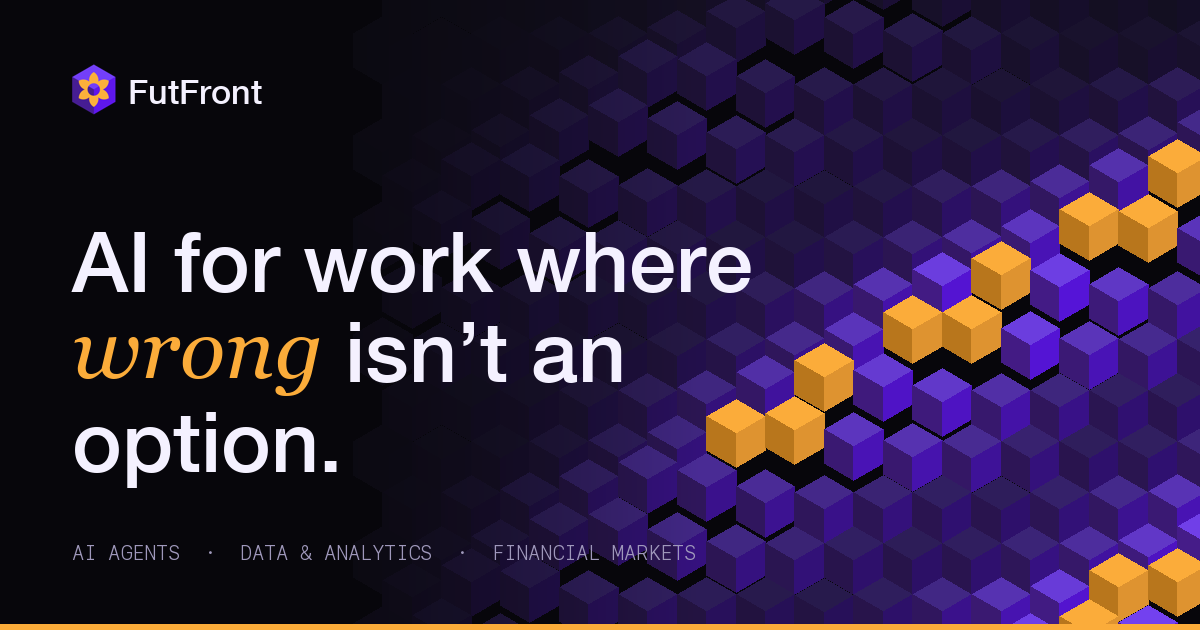
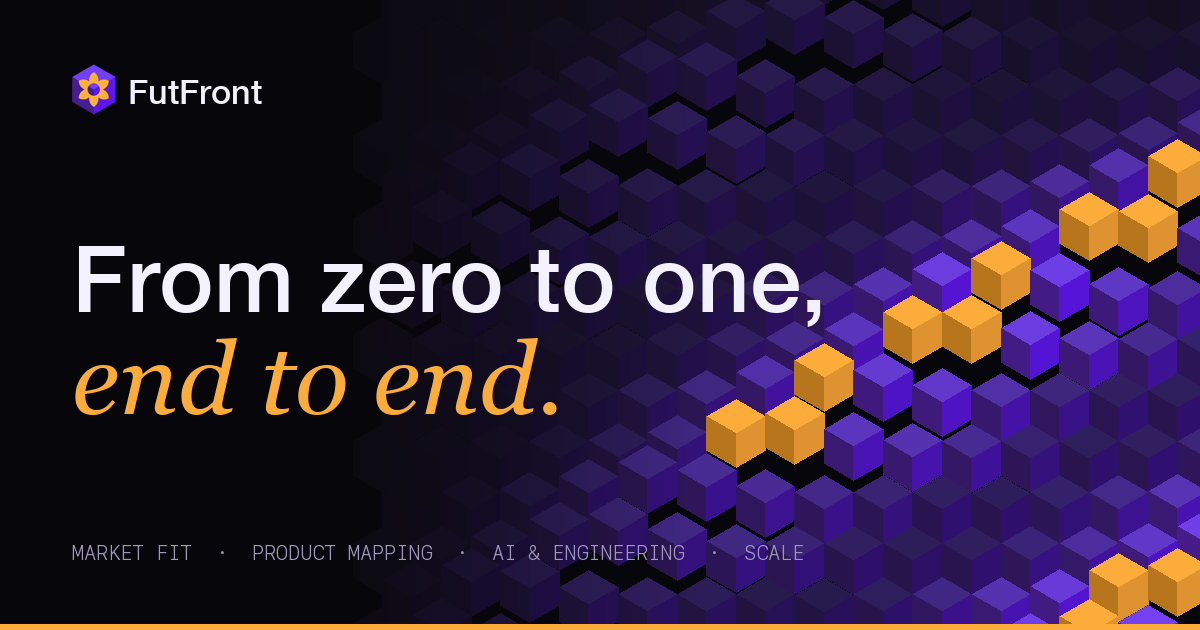
Reposition FutFront as a zero-to-one product studio
- Hero, manifesto, services and contact reframed around end-to-end
  partnership: market fit, product mapping, build, launch and scale
- Approach section becomes a 4-phase process with deliverables
- New FAQ entries; title, meta, OG/Twitter, JSON-LD services updated
- Regenerated og-image.png with the new headline

diff --git a/index.html b/index.html
@@ -5,8 +5,8 @@
 <meta name="viewport" content="width=device-width, initial-scale=1">
 <script>document.documentElement.classList.replace('no-js','js')</script>
 
-<title>FutFront | AI Agents, Data Analytics &amp; Financial-Markets Software Studio</title>
-<meta name="description" content="FutFront is an IIT Bombay founder-led studio building AI agents, governed analytics and financial-markets software: trade surveillance, order management, data copilots and more.">
+<title>FutFront | Zero-to-One Product Studio: Strategy, AI &amp; Engineering</title>
+<meta name="description" content="FutFront takes ideas from zero to one: market-fit validation, product mapping, AI and full-stack engineering, launch and scale. Built by IIT Bombay founders.">
 <link rel="canonical" href="https://www.futfront.com/">
 <meta name="robots" content="index, follow, max-image-preview:large">
 <meta name="theme-color" content="#07060b">
@@ -15,16 +15,16 @@
 <meta property="og:type" content="website">
 <meta property="og:site_name" content="FutFront">
 <meta property="og:url" content="https://www.futfront.com/">
-<meta property="og:title" content="FutFront | AI for work where wrong isn’t an option">
-<meta property="og:description" content="AI agents, governed analytics and financial-markets software, built by IIT Bombay founders. 18 products shipped.">
+<meta property="og:title" content="FutFront | From zero to one, end to end">
+<meta property="og:description" content="Market fit, product mapping, AI and engineering, launch and scale. One partner from idea to shipped product. 18 products shipped.">
 <meta property="og:image" content="https://www.futfront.com/og-image.png">
 <meta property="og:image:width" content="1200">
 <meta property="og:image:height" content="630">
-<meta property="og:image:alt" content="FutFront: AI for work where wrong isn’t an option">
+<meta property="og:image:alt" content="FutFront: From zero to one, end to end">
 <meta property="og:locale" content="en_IN">
 <meta name="twitter:card" content="summary_large_image">
-<meta name="twitter:title" content="FutFront | AI for work where wrong isn’t an option">
-<meta name="twitter:description" content="AI agents, governed analytics and financial-markets software, built by IIT Bombay founders.">
+<meta name="twitter:title" content="FutFront | From zero to one, end to end">
+<meta name="twitter:description" content="Market fit, product mapping, AI and engineering, launch and scale. One partner from idea to shipped product.">
 <meta name="twitter:image" content="https://www.futfront.com/og-image.png">
 
 <link rel="icon" type="image/png" href="FutFrontlogo.png">
@@ -48,22 +48,22 @@
       "url": "https://www.futfront.com/",
       "logo": "https://www.futfront.com/FutFrontlogo.png",
       "image": "https://www.futfront.com/og-image.png",
-      "description": "FutFront is an IIT Bombay founder-led technology studio building AI agents, governed data analytics and financial-markets software, from zero-to-one products to enterprise-scale systems.",
-      "slogan": "AI for work where wrong isn’t an option.",
+      "description": "FutFront is an IIT Bombay founder-led zero-to-one product studio. We take ideas from market-fit validation and product mapping through design, AI and full-stack engineering to launch and scale.",
+      "slogan": "From zero to one, end to end.",
       "founder": [
         {"@type": "Person", "name": "Adesh Bhavsar", "jobTitle": "Co-founder", "alumniOf": "Indian Institute of Technology Bombay"},
         {"@type": "Person", "name": "Ravi Kumar", "jobTitle": "Co-founder", "alumniOf": "Indian Institute of Technology Bombay"},
         {"@type": "Person", "name": "Abhishek Malyan", "jobTitle": "Co-founder", "alumniOf": "Indian Institute of Technology Bombay"}
       ],
-      "knowsAbout": ["AI agents", "Large language models", "Retrieval-augmented generation", "Trade surveillance", "Order management systems", "Regulatory technology", "Data analytics", "Embedded BI", "Master data management", "Voice AI", "Databricks", "AWS Bedrock"],
+      "knowsAbout": ["Product-market fit", "Product strategy", "Product mapping", "MVP development", "Go-to-market strategy", "AI agents", "Large language models", "Retrieval-augmented generation", "Trade surveillance", "Order management systems", "Regulatory technology", "Data analytics", "Embedded BI", "Master data management", "Voice AI", "Databricks", "AWS Bedrock"],
       "hasOfferCatalog": {
         "@type": "OfferCatalog",
         "name": "FutFront services",
         "itemListElement": [
-          {"@type": "Offer", "itemOffered": {"@type": "Service", "name": "AI Agents & Automation", "description": "LLM copilots, multi-agent systems, voice and chat agents, and document intelligence."}},
-          {"@type": "Offer", "itemOffered": {"@type": "Service", "name": "Financial-Markets Software", "description": "Trade surveillance, risk management, order management and regulatory tracking for asset managers, PMS houses and brokers."}},
-          {"@type": "Offer", "itemOffered": {"@type": "Service", "name": "Data & Analytics", "description": "Governed analytics assistants, lakehouse pipelines and multi-tenant embedded BI."}},
-          {"@type": "Offer", "itemOffered": {"@type": "Service", "name": "Product Engineering & Advisory", "description": "Full-stack product builds, AI roadmaps, go-to-market and competitive intelligence."}}
+          {"@type": "Offer", "itemOffered": {"@type": "Service", "name": "Market Fit & Strategy", "description": "Problem validation, market sizing, competitive intelligence, pricing and go-to-market strategy."}},
+          {"@type": "Offer", "itemOffered": {"@type": "Service", "name": "Product Mapping & Design", "description": "User journeys, feature maps, solution architecture, MVP scoping, prototypes and roadmaps."}},
+          {"@type": "Offer", "itemOffered": {"@type": "Service", "name": "Zero-to-One Engineering", "description": "Full-stack web and mobile apps, AI agents and copilots, data platforms and financial-markets systems."}},
+          {"@type": "Offer", "itemOffered": {"@type": "Service", "name": "Launch, Scale & Advisory", "description": "Launch analytics, iteration, performance and scaling, plus ongoing product and technology advisory."}}
         ]
       }
     },
@@ -78,12 +78,13 @@
     {
       "@type": "FAQPage",
       "mainEntity": [
-        {"@type": "Question", "name": "What does FutFront do?", "acceptedAnswer": {"@type": "Answer", "text": "FutFront is a technology studio that designs and builds AI agents, data and analytics platforms, and financial-markets software, from zero-to-one products to enterprise-scale systems."}},
+        {"@type": "Question", "name": "What does FutFront do?", "acceptedAnswer": {"@type": "Answer", "text": "FutFront is a zero-to-one product studio. We take ideas from market-fit validation and product mapping through design, AI and full-stack engineering to launch and scale, as one end-to-end partner."}},
+        {"@type": "Question", "name": "Can you help before we have a product?", "acceptedAnswer": {"@type": "Answer", "text": "Yes, that is where we start. We validate the market, map the product and scope an MVP before writing code, so you invest in what customers will actually use."}},
+        {"@type": "Question", "name": "What does an engagement look like?", "acceptedAnswer": {"@type": "Answer", "text": "Four phases: discover and validate, map the product, build and ship, then launch and scale. You can engage us for the full journey or for a single phase, such as a market-fit study or an MVP build."}},
         {"@type": "Question", "name": "Which industries does FutFront work with?", "acceptedAnswer": {"@type": "Answer", "text": "Capital markets and wealth management, enterprise data and SaaS analytics, telecom, government and deep tech. Our catalog includes trade surveillance, order management, data stewardship copilots and governed analytics assistants."}},
-        {"@type": "Question", "name": "How do you make AI reliable for regulated work?", "acceptedAnswer": {"@type": "Answer", "text": "We keep models away from the facts. Deterministic code computes every number, outputs are validated against schemas and sources, every write needs human confirmation, and every action lands in an audit trail."}},
-        {"@type": "Question", "name": "Can FutFront deploy inside our own cloud?", "acceptedAnswer": {"@type": "Answer", "text": "Yes. Several of our systems run single-tenant in the client’s own cloud account or on self-hosted open-weight models, so sensitive data never leaves your environment."}},
+        {"@type": "Question", "name": "How do you make AI reliable?", "acceptedAnswer": {"@type": "Answer", "text": "We keep models away from the facts. Deterministic code computes every number, outputs are validated against schemas and sources, every write needs human confirmation, and every action lands in an audit trail."}},
         {"@type": "Question", "name": "Who founded FutFront?", "acceptedAnswer": {"@type": "Answer", "text": "FutFront was founded by IIT Bombay alumni Adesh Bhavsar, Ravi Kumar and Abhishek Malyan, with experience across Elevance Health, Trinity Life Sciences, Flexiloans, Omind Tech, HPCL and Mitacs research."}},
-        {"@type": "Question", "name": "How do we start a project with FutFront?", "acceptedAnswer": {"@type": "Answer", "text": "Send us a note through the contact form. We set up a discovery call, map the problem and the data, and propose a scoped first build."}}
+        {"@type": "Question", "name": "How do we start a project with FutFront?", "acceptedAnswer": {"@type": "Answer", "text": "Send us a note through the contact form, even if the idea is still rough. We set up a discovery call, look at the market and the problem, and propose the right first step."}}
       ]
     }
   ]
@@ -201,7 +202,7 @@ a:hover>.roll>span,button:hover>.roll>span{transform:translateY(-1.35em)}
 .hero__veil{position:absolute;inset:0;z-index:-1;pointer-events:none;background:linear-gradient(95deg,rgba(7,6,11,.94) 0%,rgba(7,6,11,.7) 38%,rgba(7,6,11,0) 70%),linear-gradient(0deg,var(--ink) 0%,rgba(7,6,11,0) 22%)}
 .hero__content{height:100%;display:flex;flex-direction:column;justify-content:center;gap:clamp(22px,3vw,36px);padding-top:70px}
 .js .hero__content{visibility:hidden}
-.hero__title{font-size:clamp(46px,8.3vw,150px);line-height:.93;letter-spacing:-.05em;font-weight:500;max-width:12.5ch}
+.hero__title{font-size:clamp(44px,8.6vw,156px);line-height:.93;letter-spacing:-.05em;font-weight:500}
 .hero__title .serif{color:var(--saffron);padding-right:.04em}
 .hero__row{display:flex;justify-content:space-between;align-items:flex-end;gap:32px;flex-wrap:wrap}
 .hero__sub{max-width:46ch;color:var(--muted);font-size:clamp(16px,1.25vw,19px)}
@@ -341,6 +342,7 @@ section{position:relative}
 .principle .mono{color:var(--accent)}
 .principle h3{font-size:clamp(28px,3.2vw,52px);line-height:1.02;letter-spacing:-.04em;font-weight:500;margin-top:12px}
 .principle p{color:var(--fg-muted);margin-top:14px;max-width:48ch;font-size:clamp(15px,1.15vw,18px)}
+.principle p.deliv{font:400 11.5px/1.7 var(--mono);letter-spacing:.07em;text-transform:uppercase;color:var(--fg);margin-top:18px}
 
 /* ── demos ── */
 .demos__grid{display:grid;grid-template-columns:repeat(3,1fr);gap:16px}
@@ -499,7 +501,7 @@ section{position:relative}
     <a href="#services"><span class="roll"><span>Services</span></span></a>
     <a href="#work"><span class="roll"><span>Work</span></span></a>
     <a href="#catalog"><span class="roll"><span>Catalog</span></span></a>
-    <a href="#approach"><span class="roll"><span>Approach</span></span></a>
+    <a href="#process"><span class="roll"><span>Process</span></span></a>
     <a href="#team"><span class="roll"><span>Team</span></span></a>
   </nav>
   <div class="nav__right">
@@ -511,10 +513,10 @@ section{position:relative}
   <a href="#services">Services</a>
   <a href="#work">Work</a>
   <a href="#catalog">Catalog</a>
-  <a href="#approach">Approach</a>
+  <a href="#process">Process</a>
   <a href="#team">Team</a>
   <a href="#contact">Contact</a>
-  <p class="mono">AI · Data · Financial Markets</p>
+  <p class="mono">Zero to one · End to end</p>
 </div>
 
 <main id="main">
@@ -524,10 +526,10 @@ section{position:relative}
   <canvas id="gl" aria-hidden="true"></canvas>
   <div class="hero__veil"></div>
   <div class="hero__content wrap">
-    <p class="eyebrow mono" data-scramble>FutFront: AI · Data · Financial Markets</p>
-    <h1 class="hero__title" id="hero-h">AI for work where <em class="serif">wrong</em> isn’t an option.</h1>
+    <p class="eyebrow mono" data-scramble>FutFront: Zero-to-one product studio</p>
+    <h1 class="hero__title" id="hero-h">From zero to one,<br><em class="serif">end to end.</em></h1>
     <div class="hero__row">
-      <p class="hero__sub">An <strong>IIT Bombay founder-led studio</strong> building AI agents, governed analytics and financial-markets software for teams where every number has to be right.</p>
+      <p class="hero__sub">We take your idea from <strong>market fit and product mapping</strong> to a shipped, scaling product, with strategy, design, AI and engineering under one roof. Founded by IIT Bombay alumni.</p>
       <div class="hero__ctas">
         <a href="#work" class="btn magnetic"><span class="roll"><span>See our work</span></span><svg viewBox="0 0 14 14" fill="none" aria-hidden="true"><path d="M1 13 13 1M13 1H3M13 1v10" stroke="currentColor" stroke-width="1.6"/></svg></a>
         <a href="#contact" class="btn btn--ghost magnetic"><span class="roll"><span>Talk to the founders</span></span></a>
@@ -543,7 +545,7 @@ section{position:relative}
 
 <!-- ███ MARQUEE ███ -->
 <section class="marquee" aria-label="Capabilities">
-  <div class="marquee__row"><div class="marquee__track"><span>AI Agents</span><span>Trade Surveillance</span><span>Governed Analytics</span><span>Voice AI</span><span>Order Management</span><span>Data Stewardship</span><span>Embedded BI</span><span>Entity Resolution</span></div></div>
+  <div class="marquee__row"><div class="marquee__track"><span>Market Fit</span><span>Product Mapping</span><span>MVP Builds</span><span>AI Agents</span><span>Data Platforms</span><span>Trade Surveillance</span><span>Voice AI</span><span>Launch &amp; Scale</span></div></div>
   <div class="marquee__row marquee__row--alt" aria-hidden="true"><div class="marquee__track"><span>Claude</span><span>GPT-4o</span><span>AWS Bedrock</span><span>Databricks</span><span>ClickHouse</span><span>LangGraph</span><span>FastAPI</span><span>Next.js</span><span>Whisper</span><span>PostgreSQL</span></div></div>
 </section>
 
@@ -551,7 +553,7 @@ section{position:relative}
 <section class="sec manifesto" id="about" data-theme="paper" aria-labelledby="about-h">
   <div class="wrap">
     <h2 class="mono label" id="about-h">( 01 · Who we are )</h2>
-    <p class="manifesto__text">We’re builders, not slide-makers. We take messy, high-stakes problems like trade surveillance, credit decisions, sales pipelines and citizen services, and turn them into software that ships, scales and <em>proves its own numbers.</em> The model writes the words. Code computes the facts. Humans make the call.</p>
+    <p class="manifesto__text">We’re your zero-to-one partner, not another vendor. We start where the idea is still a hunch: who it’s for, whether the market wants it, what to build first. Then we map it, design it, engineer it and <em>ship it,</em> and stay on until it scales. One team, from the first whiteboard to the thousandth user.</p>
     <div class="manifesto__sign mono" data-reveal>
       <span><b>3</b> IIT Bombay co-founders</span>
       <span><b>18</b> products shipped</span>
@@ -564,46 +566,46 @@ section{position:relative}
 <section class="services" id="services" data-theme="paper" aria-labelledby="services-h">
   <div class="wrap">
     <header class="sec-head">
-      <div><span class="mono label">( 02 · Services )</span><h2 id="services-h" class="split-reveal">What we <em class="serif">deliver</em></h2></div>
-      <p class="sec-head__aside" data-reveal>Four practices, one team. Strategy, engineering and data under one roof, so nothing gets lost in hand-offs.</p>
+      <div><span class="mono label">( 02 · Services )</span><h2 id="services-h" class="split-reveal">From idea to <em class="serif">impact</em></h2></div>
+      <p class="sec-head__aside" data-reveal>One partner for the whole journey. Strategy, design, engineering and AI under one roof, so nothing gets lost in hand-offs.</p>
     </header>
 
     <article class="svc" style="--i:0">
       <span class="svc__num mono">01</span>
       <div class="svc__body">
-        <h3>AI Agents &amp; Automation</h3>
-        <p>Agentic systems that read, reason and act: LLM copilots, multi-agent orchestration, voice and chat agents, and document intelligence, all built deterministic-first so they never invent a number.</p>
-        <ul class="tags"><li>Multi-agent systems</li><li>RAG &amp; search</li><li>Voice AI</li><li>Evals &amp; guardrails</li></ul>
+        <h3>Market Fit &amp; Strategy</h3>
+        <p>Before code, conviction. We validate the problem, size the market, tear down competitors and pressure-test pricing and go-to-market, so you build what people will actually pay for.</p>
+        <ul class="tags"><li>Market research</li><li>Competitive intel</li><li>Product–market fit</li><li>GTM &amp; pricing</li></ul>
       </div>
-      <div class="svc__art"><canvas data-art="graph" aria-hidden="true"></canvas></div>
+      <div class="svc__art"><canvas data-art="candles" aria-hidden="true"></canvas></div>
     </article>
 
     <article class="svc" style="--i:1">
       <span class="svc__num mono">02</span>
       <div class="svc__body">
-        <h3>Financial-Markets Software</h3>
-        <p>Trade surveillance, risk management, order management and regulatory tracking for asset managers, portfolio managers and brokers. Audit-ready by design and deployable in your own cloud.</p>
-        <ul class="tags"><li>Surveillance &amp; risk</li><li>OMS &amp; back office</li><li>RegTech</li><li>Credit decisioning</li></ul>
+        <h3>Product Mapping &amp; Design</h3>
+        <p>We turn the idea into a buildable plan: personas, user journeys, feature maps, solution architecture, MVP scope and a roadmap with clear milestones and costs.</p>
+        <ul class="tags"><li>Product mapping</li><li>MVP scoping</li><li>UX &amp; prototypes</li><li>Architecture</li></ul>
       </div>
-      <div class="svc__art"><canvas data-art="candles" aria-hidden="true"></canvas></div>
+      <div class="svc__art"><canvas data-art="scan" aria-hidden="true"></canvas></div>
     </article>
 
     <article class="svc" style="--i:2">
       <span class="svc__num mono">03</span>
       <div class="svc__body">
-        <h3>Data &amp; Analytics</h3>
-        <p>Governed analytics assistants, lakehouse pipelines and multi-tenant embedded BI that turn scattered data into decisions people can trust and drill into.</p>
-        <ul class="tags"><li>Databricks</li><li>Embedded BI</li><li>Semantic layers</li><li>Data quality &amp; MDM</li></ul>
+        <h3>Zero-to-One Engineering</h3>
+        <p>Full-stack builds with AI at the core: web and mobile apps, agents and copilots, data platforms and financial-markets systems, shipped secure, observable and production-ready.</p>
+        <ul class="tags"><li>Web &amp; mobile</li><li>AI agents &amp; LLMs</li><li>Data &amp; analytics</li><li>Cloud &amp; DevOps</li></ul>
       </div>
-      <div class="svc__art"><canvas data-art="bars" aria-hidden="true"></canvas></div>
+      <div class="svc__art"><canvas data-art="graph" aria-hidden="true"></canvas></div>
     </article>
 
     <article class="svc" style="--i:3">
       <span class="svc__num mono">04</span>
       <div class="svc__body">
-        <h3>Product Engineering &amp; Advisory</h3>
-        <p>Full-stack builds from architecture to app store, plus the strategy around them: AI roadmaps, build-vs-buy, go-to-market and live competitive intelligence.</p>
-        <ul class="tags"><li>Web &amp; mobile</li><li>Cloud &amp; DevOps</li><li>AI roadmaps</li><li>Competitive intel</li></ul>
+        <h3>Launch, Scale &amp; Advisory</h3>
+        <p>Launch is the starting line. We stay on for analytics, iteration and performance, and advise on build-vs-buy, hiring and handover as the product and team grow.</p>
+        <ul class="tags"><li>Growth analytics</li><li>Scaling</li><li>Tech advisory</li><li>Team handover</li></ul>
       </div>
       <div class="svc__art"><canvas data-art="iso" aria-hidden="true"></canvas></div>
     </article>
@@ -645,7 +647,7 @@ section{position:relative}
   <div class="wrap">
     <header class="sec-head">
       <div><span class="mono label">( 05 · Catalog )</span><h2 id="catalog-h" class="split-reveal">The full <em class="serif">catalog</em></h2></div>
-      <p class="sec-head__aside" data-reveal>Every product we’ve designed, built and shipped. Client names are kept confidential. Open any card for the full case study.</p>
+      <p class="sec-head__aside" data-reveal>Every product we’ve taken from zero to one, or rebuilt to scale. Client names are kept confidential. Open any card for the full case study.</p>
     </header>
     <div class="filters" id="filters" role="group" aria-label="Filter projects by sector"></div>
 
@@ -1099,21 +1101,21 @@ section{position:relative}
   </div>
 </section>
 
-<!-- ███ APPROACH ███ -->
-<section class="sec approach" id="approach" data-theme="paper" aria-labelledby="approach-h">
+<!-- ███ PROCESS ███ -->
+<section class="sec approach" id="process" data-theme="paper" aria-labelledby="process-h">
   <div class="wrap approach__grid">
     <div class="approach__intro">
-      <span class="mono label">( 07 · Approach )</span>
-      <h2 id="approach-h" class="split-reveal" style="font-size:clamp(46px,6.6vw,116px);line-height:.94;letter-spacing:-.05em;font-weight:500;margin-top:22px">How we <em class="serif">build</em></h2>
-      <p data-reveal>Four rules that show up in every system we ship, from a trade-surveillance desk to a data-stewardship copilot.</p>
+      <span class="mono label">( 07 · Process )</span>
+      <h2 id="process-h" class="split-reveal" style="font-size:clamp(46px,6.6vw,116px);line-height:.94;letter-spacing:-.05em;font-weight:500;margin-top:22px">Zero to one, <em class="serif">step by step</em></h2>
+      <p data-reveal>Engage us for the full journey or any single phase, from a market-fit study to a production launch.</p>
     </div>
     <div class="principles">
       <span class="principles__line" aria-hidden="true"><i></i></span>
       <ol>
-      <li class="principle"><span class="mono">Rule 01</span><h3>Code computes, models narrate</h3><p>LLMs plan and explain. Every number on screen comes from deterministic code with a citation; if it can’t be computed, the system says so instead of guessing.</p></li>
-      <li class="principle"><span class="mono">Rule 02</span><h3>Humans sign off on every write</h3><p>Propose → confirm → audit → execute. AI drafts the email, the order, the alert. A person makes the call, and the trail proves it.</p></li>
-      <li class="principle"><span class="mono">Rule 03</span><h3>Isolation by construction</h3><p>Per-client stores, row-level security and single-tenant deployments in your own cloud. Wrong-client data is designed out, not tested for.</p></li>
-      <li class="principle"><span class="mono">Rule 04</span><h3>Measured, not vibed</h3><p>Benchmarks, holdouts and eval gates decide what ships. “1/23 → 21/23” is how we talk about progress.</p></li>
+      <li class="principle"><span class="mono">Phase 01</span><h3>Discover &amp; validate</h3><p>Customer conversations, market sizing, competitor teardown and a clear verdict on product–market fit. If the idea doesn’t hold up, you hear it from us first.</p><p class="deliv">Market-fit report · Competitive map · Go / no-go</p></li>
+      <li class="principle"><span class="mono">Phase 02</span><h3>Map the product</h3><p>We turn the opportunity into a blueprint: personas, journeys, feature map, architecture, MVP scope, milestones and budget.</p><p class="deliv">Product map · MVP scope · Roadmap &amp; estimate</p></li>
+      <li class="principle"><span class="mono">Phase 03</span><h3>Build &amp; ship</h3><p>Design and engineering in tight sprints with frequent demos. AI built deterministic-first: code computes the numbers, humans sign off on every action, everything is audited.</p><p class="deliv">Working MVP · Sprint demos · Production launch</p></li>
+      <li class="principle"><span class="mono">Phase 04</span><h3>Launch &amp; scale</h3><p>Analytics, iteration and growth after launch, plus the advice to hire, hand over or keep scaling with us.</p><p class="deliv">Growth analytics · Iterations · Handover or partnership</p></li>
       </ol>
     </div>
   </div>
@@ -1178,12 +1180,13 @@ section{position:relative}
   <div class="wrap faq__grid">
     <div><span class="mono label">( 10 · FAQ )</span><h2 id="faq-h" class="split-reveal" style="font-size:clamp(46px,6.6vw,116px);line-height:.94;letter-spacing:-.05em;font-weight:500;margin-top:22px">Good <em class="serif">questions</em></h2></div>
     <div class="faq__list">
-      <details><summary>What does FutFront do?<i aria-hidden="true"></i></summary><p>FutFront is a technology studio that designs and builds AI agents, data and analytics platforms, and financial-markets software, from zero-to-one products to enterprise-scale systems.</p></details>
+      <details><summary>What does FutFront do?<i aria-hidden="true"></i></summary><p>FutFront is a zero-to-one product studio. We take ideas from market-fit validation and product mapping through design, AI and full-stack engineering to launch and scale, as one end-to-end partner.</p></details>
+      <details><summary>Can you help before we have a product?<i aria-hidden="true"></i></summary><p>Yes, that is where we start. We validate the market, map the product and scope an MVP before writing code, so you invest in what customers will actually use.</p></details>
+      <details><summary>What does an engagement look like?<i aria-hidden="true"></i></summary><p>Four phases: discover and validate, map the product, build and ship, then launch and scale. You can engage us for the full journey or for a single phase, such as a market-fit study or an MVP build.</p></details>
       <details><summary>Which industries does FutFront work with?<i aria-hidden="true"></i></summary><p>Capital markets and wealth management, enterprise data and SaaS analytics, telecom, government and deep tech. Our catalog includes trade surveillance, order management, data stewardship copilots and governed analytics assistants.</p></details>
-      <details><summary>How do you make AI reliable for regulated work?<i aria-hidden="true"></i></summary><p>We keep models away from the facts. Deterministic code computes every number, outputs are validated against schemas and sources, every write needs human confirmation, and every action lands in an audit trail.</p></details>
-      <details><summary>Can FutFront deploy inside our own cloud?<i aria-hidden="true"></i></summary><p>Yes. Several of our systems run single-tenant in the client’s own cloud account or on self-hosted open-weight models, so sensitive data never leaves your environment.</p></details>
+      <details><summary>How do you make AI reliable?<i aria-hidden="true"></i></summary><p>We keep models away from the facts. Deterministic code computes every number, outputs are validated against schemas and sources, every write needs human confirmation, and every action lands in an audit trail.</p></details>
       <details><summary>Who founded FutFront?<i aria-hidden="true"></i></summary><p>FutFront was founded by IIT Bombay alumni Adesh Bhavsar, Ravi Kumar and Abhishek Malyan, with experience across Elevance Health, Trinity Life Sciences, Flexiloans, Omind Tech, HPCL and Mitacs research.</p></details>
-      <details><summary>How do we start a project with FutFront?<i aria-hidden="true"></i></summary><p>Send us a note through the contact form. We set up a discovery call, map the problem and the data, and propose a scoped first build.</p></details>
+      <details><summary>How do we start a project with FutFront?<i aria-hidden="true"></i></summary><p>Send us a note through the contact form, even if the idea is still rough. We set up a discovery call, look at the market and the problem, and propose the right first step.</p></details>
     </div>
   </div>
 </section>
@@ -1192,16 +1195,16 @@ section{position:relative}
 <section class="sec contact" id="contact" aria-labelledby="contact-h" style="padding-top:0">
   <div class="wrap">
     <span class="mono label">( 11 · Contact )</span>
-    <h2 class="contact__title split-reveal" id="contact-h" style="margin-top:22px">Have a hard problem?<br><em class="serif">Let’s build it.</em></h2>
+    <h2 class="contact__title split-reveal" id="contact-h" style="margin-top:22px">Got an idea?<br><em class="serif">Let’s make it real.</em></h2>
     <div class="contact__grid">
       <div class="contact__copy" data-reveal>
-        <p>Tell us what you’re building, or what’s breaking. One of the founders will get back to you.</p>
-        <ul class="mono"><li>Discovery call</li><li>Scoped first build</li><li>Ship, measure, scale</li></ul>
+        <p>Tell us about the idea, even if it’s a napkin sketch. One of the founders will get back to you.</p>
+        <ul class="mono"><li>Market-fit check</li><li>Product map &amp; MVP scope</li><li>Build, launch, scale</li></ul>
       </div>
       <form id="contactForm" class="form" novalidate data-reveal>
         <div class="field"><input type="text" id="nameInput" name="name" placeholder=" " autocomplete="name" required><label for="nameInput">Your name</label></div>
         <div class="field"><input type="email" id="emailInput" name="email" placeholder=" " autocomplete="email" required><label for="emailInput">Email</label></div>
-        <div class="field"><textarea id="messageInput" name="message" rows="4" placeholder=" " required></textarea><label for="messageInput">What are you building?</label></div>
+        <div class="field"><textarea id="messageInput" name="message" rows="4" placeholder=" " required></textarea><label for="messageInput">Tell us about your idea</label></div>
         <div class="form__foot">
           <div id="formStatus" role="status" aria-live="polite"></div>
           <button type="submit" class="btn magnetic"><span class="roll"><span>Send message</span></span><svg viewBox="0 0 14 14" fill="none" aria-hidden="true"><path d="M1 13 13 1M13 1H3M13 1v10" stroke="currentColor" stroke-width="1.6"/></svg></button>
@@ -1218,9 +1221,9 @@ section{position:relative}
     <div class="footer__top">
       <div>
         <a href="#home" class="nav__brand" style="margin-bottom:16px"><img src="FutFrontlogo.png" alt="" width="26" height="30">FutFront</a>
-        <p>AI agents, governed analytics and financial-markets software, built by IIT Bombay founders.</p>
+        <p>Zero-to-one product studio: market fit, product mapping, AI and engineering. Built by IIT Bombay founders.</p>
       </div>
-      <div><h4>Explore</h4><ul><li><a href="#services">Services</a></li><li><a href="#work">Featured work</a></li><li><a href="#catalog">Catalog</a></li><li><a href="#approach">Approach</a></li></ul></div>
+      <div><h4>Explore</h4><ul><li><a href="#services">Services</a></li><li><a href="#work">Featured work</a></li><li><a href="#catalog">Catalog</a></li><li><a href="#process">Process</a></li></ul></div>
       <div><h4>Company</h4><ul><li><a href="#team">Team</a></li><li><a href="#demos">Demos</a></li><li><a href="#faq">FAQ</a></li><li><a href="#contact">Contact</a></li></ul></div>
     </div>
     <div class="footer__word" aria-hidden="true">FutFront</div>
